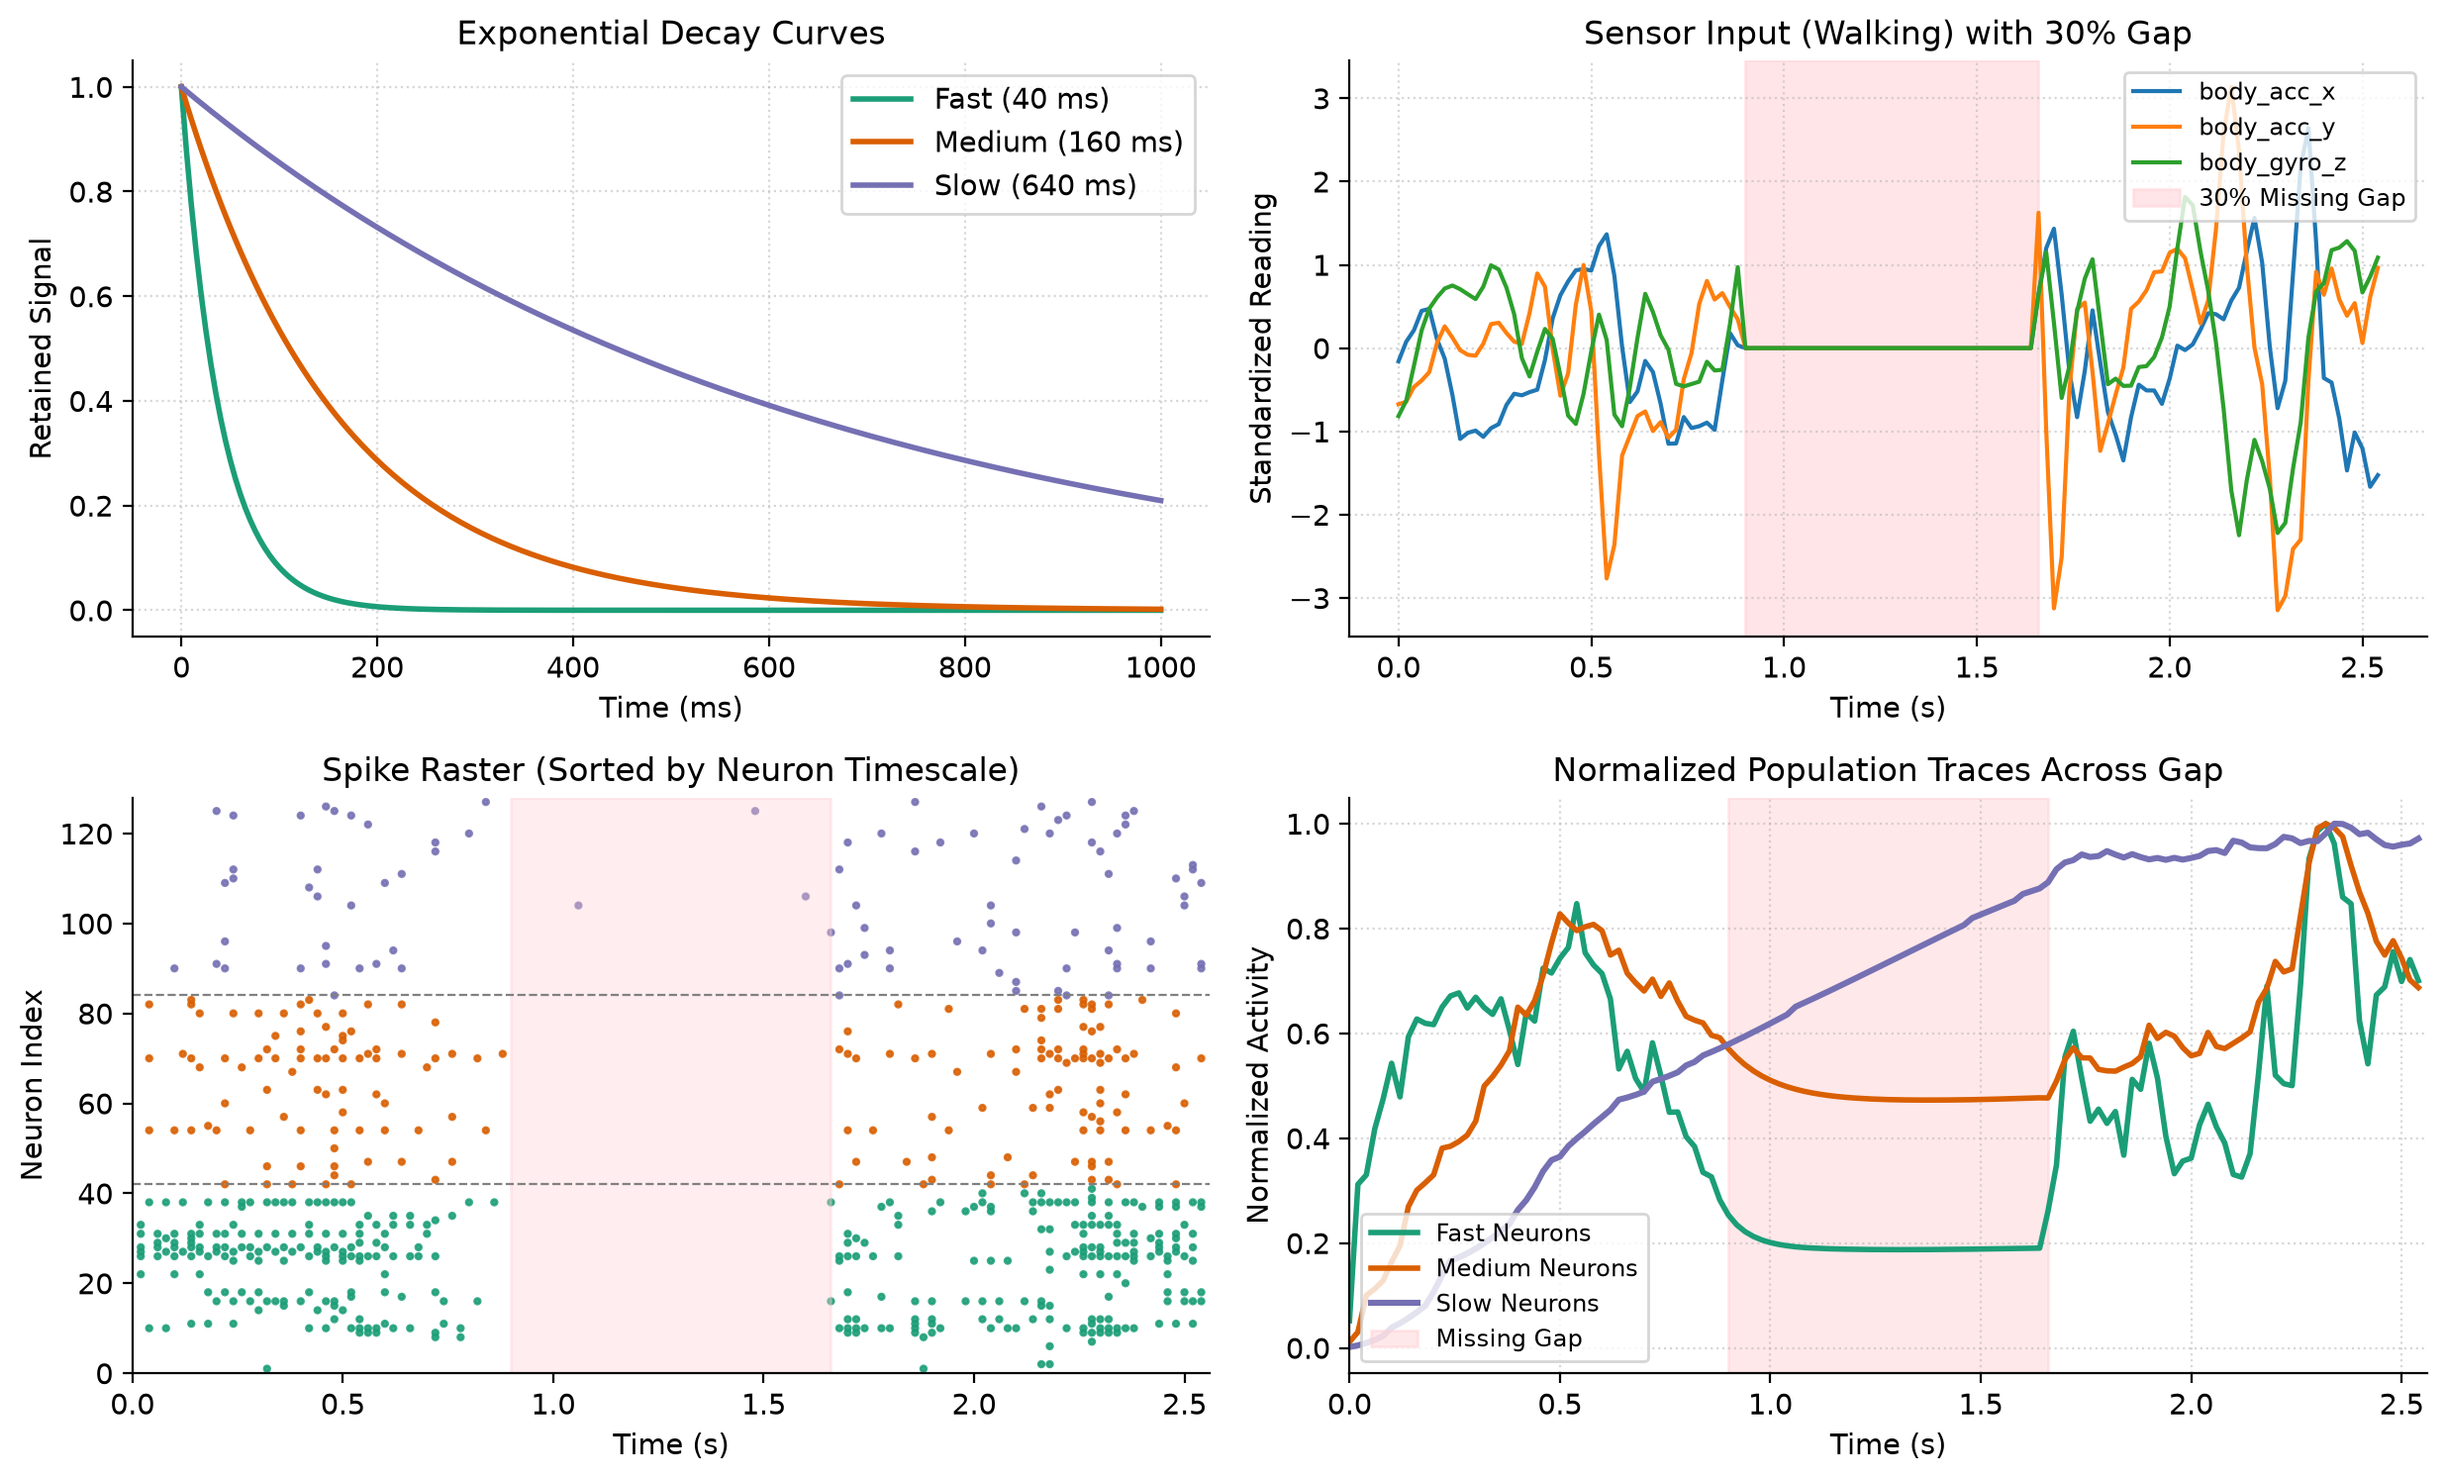
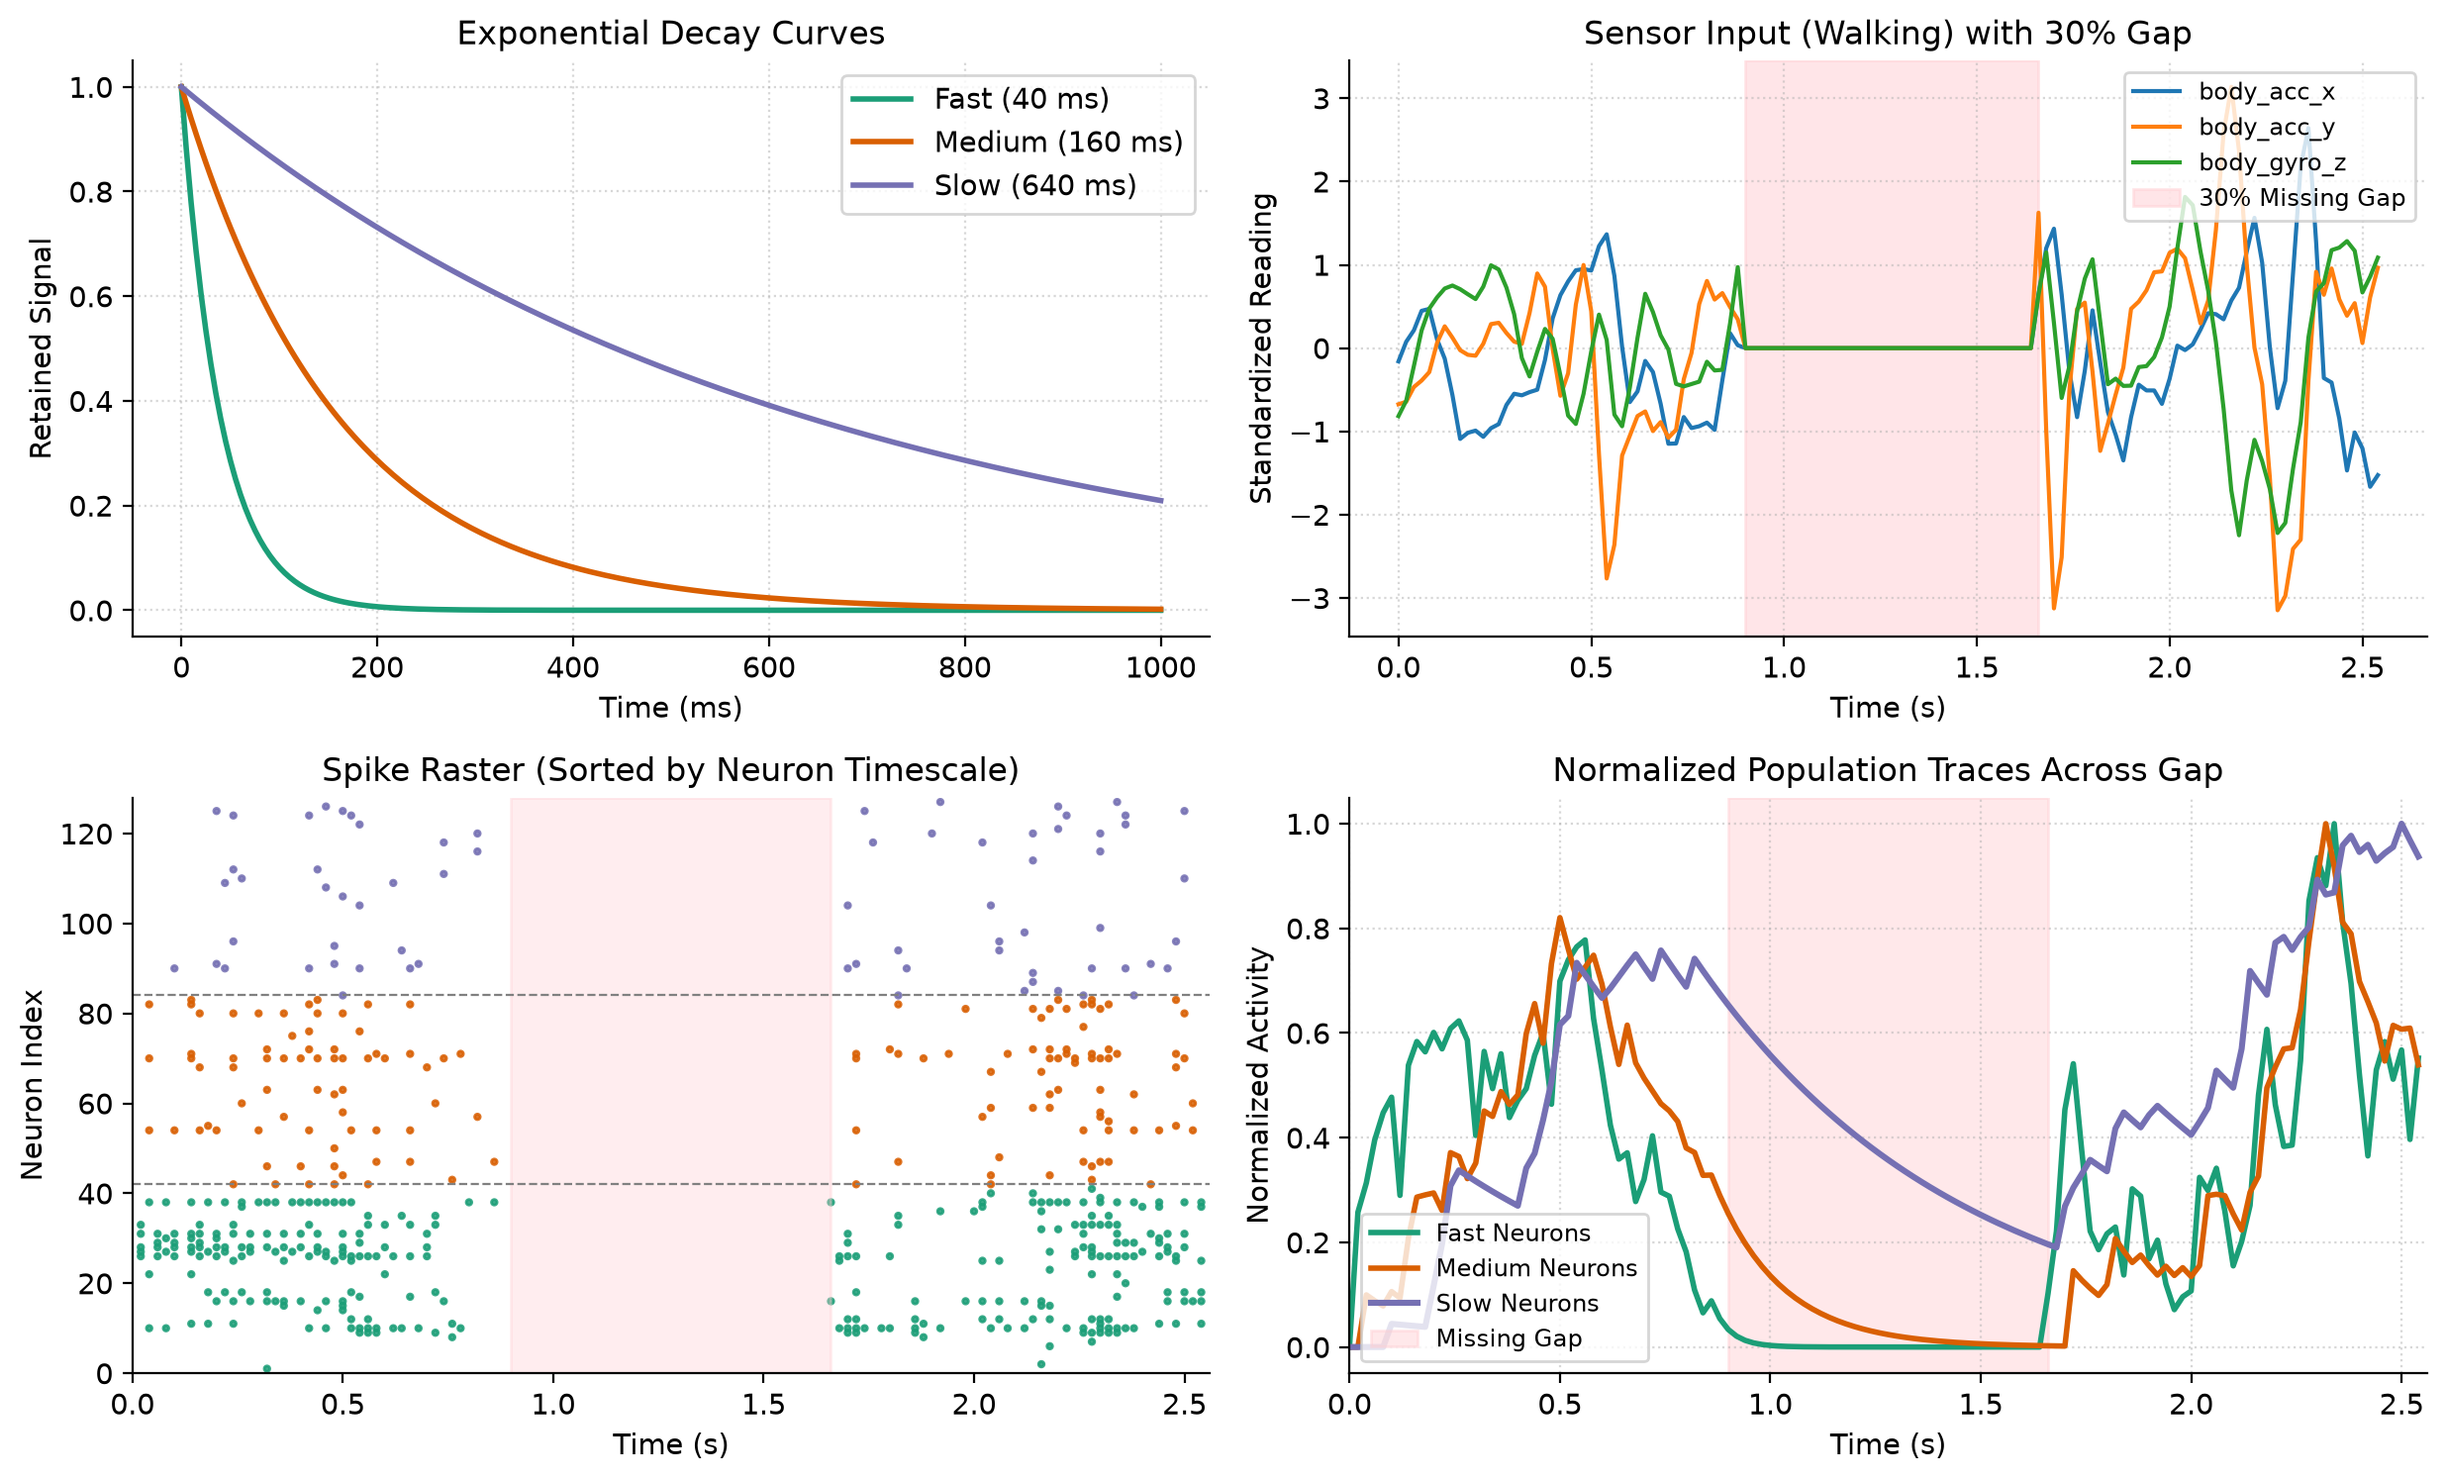
Update trace plot in figure script

diff --git a/scripts/05_generate_figures.py b/scripts/05_generate_figures.py
@@ -84,7 +84,7 @@ def main():
         fired = (v >= res_het.v_th).astype(np.float32)
         spikes[t, :] = fired[0]
         v = np.maximum(0.0, v - fired * res_het.v_th)
-        r = alpha * r + one_minus_alpha * fired + 0.15 * one_minus_alpha * v
+        r = alpha * r + one_minus_alpha * fired
         traces[t, :] = r[0]
 
     demo_data = {
